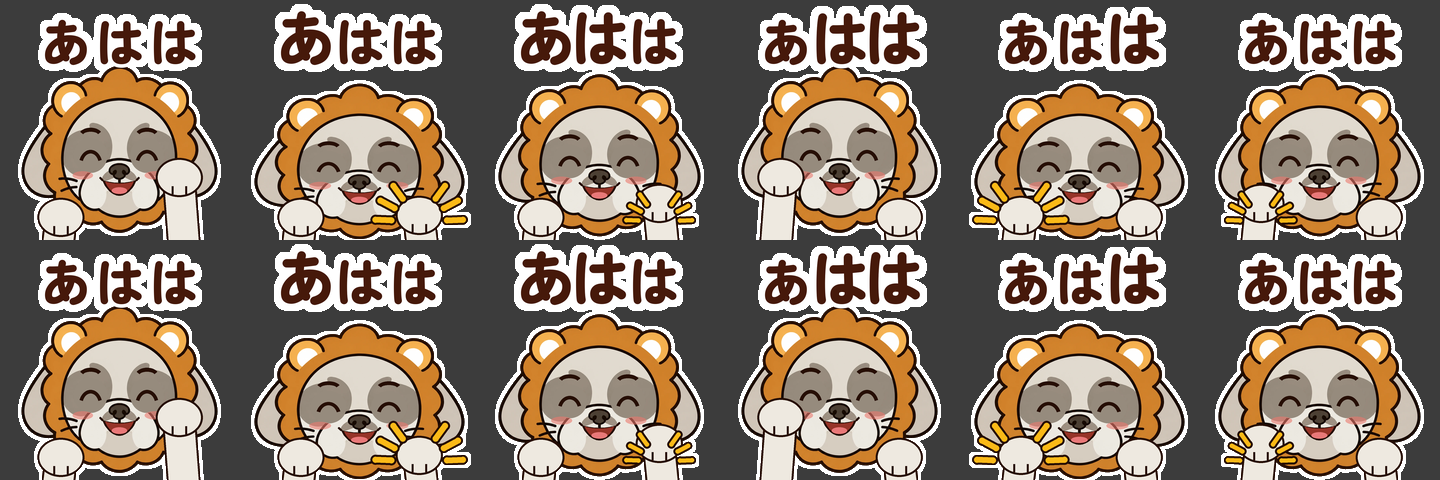
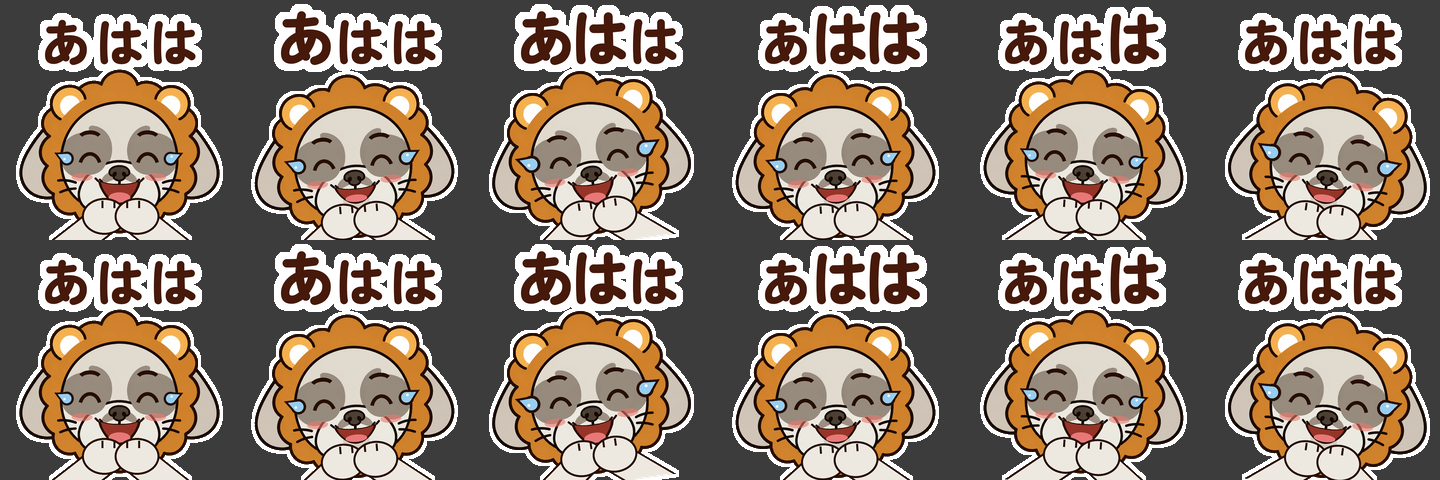
Rework 'ahaha' sticker: belly-holding guffaw with laugh tears
Claude-Session: https://claude.ai/code/session_01KX3WDfyPkAofSs6dqvGAmw

diff --git a/.claude/skills/stamp-create/SKILL.md b/.claude/skills/stamp-create/SKILL.md
@@ -99,7 +99,8 @@ print(ms.verify("assets/gif/名前.gif"))                     # 検証
 - **びっくり（画像1枚＋描き足し）**：画面の下から顔の色に近い白っぽい前足が頬の横へ（4コマ）→ 黒目と眉が小さくなり、眉が上がり、口が「お」の形へ少しずつ変化（3〜4コマ）→ 体が少し跳ねて「！」が弾んで出現（4〜5コマ）→ 最後のコマを長めに表示
 - **すごい！（画像1枚＋描き足し＋文字）**：画面の下から親指を立てた前足がせり上がる → 前に突き出す（大きさ 1.08 → 1.16）。同時に表情がだんだん満面の笑顔に変わり、親指の先に「キラッ」。文字は「す・ご・い・！」が1コマに1文字ずつ大きく（1.4倍）弾んで並び、そのあと「すごい！」全体が `1.18 → 0.94 → 1.05 → 1.0` と弾む → 決めポーズで長めに止める（10コマ・3秒）
 - **こんにちは・お辞儀（画像1枚＋描き足し＋文字）**：そろえた前足（手の甲側）が下からそっとせり上がる → 頭を下げる（下へ 120px・縦に 0.84 倍。`Image.QUAD` で上を広く・下を狭くして、頭のてっぺんが手前に来る遠近感を付ける）→ 深いお辞儀で少し止める → 顔を上げて少し背伸び → にっこり笑顔で長めに止める（10コマ・3.5秒）。表情はお辞儀に合わせて満面の笑顔へ。文字は1文字ずつ、0.45倍から1倍へ行き過ぎずになめらかに大きくなり、少し下からふわっと定位置へ上がる。「やわらかく」と言われたら、文字色を明るい茶色（RGB 122,74,50）にする
-- **あはは・大笑いでバンバン（画像1枚＋描き足し＋文字）**：表情はずっと満面の笑顔。1回の「バン」＝振り上げ（体 -14px）→ 叩く（体 +14px・縦 0.95 で、むにっと沈む。黄色い衝撃線が前足の**左右に**広がる）→ はね返り、の3コマ。右→左を2回で12コマ・1.5秒。叩いた前足は画面の下に隠れないよう、見える高さに着地させる（隠れると衝撃線が指のように見える）。文字「あはは」はリズムに合わせて1文字ずつ時間差で大きく・上に弾む
+- **あはは・お腹を抱えてゲラゲラ（画像1枚＋描き足し＋文字）**：左右の下から伸びた前足（手の甲側）を体の前で重ねてお腹を抱える。体は下の中央を軸に `0, 5, 8, 4, -4, -8` 度で左右に大きく揺れ、同時に毎コマ `-12 / +10px` で上下に小刻みに弾む。口はさらに大きく開け、`1.0 / 0.72` で開いたり閉じたりして「ハッ、ハッ」と笑う。目尻の水色の笑い涙は、とがった先を目に向けて外へ飛び出させる（まっすぐ立てると冷や汗に見える）。6コマで1往復×2回＝12コマ・1.5秒。文字「あはは」はリズムに合わせて1文字ずつ時間差で弾む
+  - 前足でバンバン叩く版もある：振り上げ → 叩く（体がむにっと沈み、黄色い衝撃線が前足の左右に広がる）→ はね返り、の3コマを右→左で2回。叩いた前足は画面の下に隠れない高さに着地させる
 - GIF は表示時間を 10ms 単位でしか記録できない（125ms は 120ms になる）。合計秒数をきっちり合わせたいときは、130ms と 120ms を交互に並べるなど、10ms 単位の値で組む
 - **跳ねる（画像1枚）**：`sy:0.92, sx:1.05`（しゃがむ）→ `dy:-20`（跳ぶ）→ `dy:-28` → `dy:-20` → 着地 `sy:0.94` → 元に戻る
 - **左右に揺れる（画像1枚）**：`rot` を `0 → 6 → 0 → -6 → 0` の順にする
